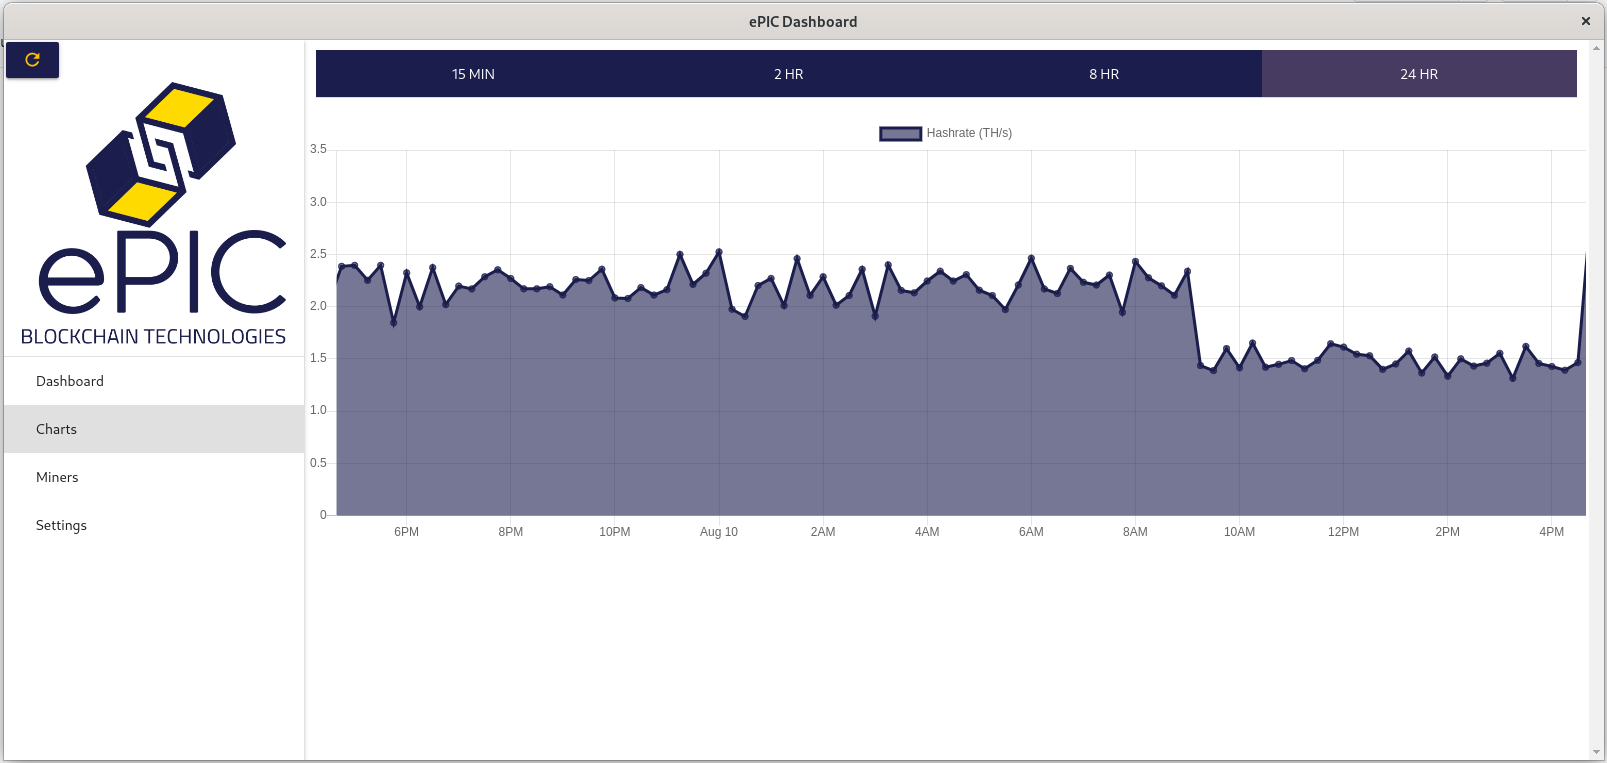
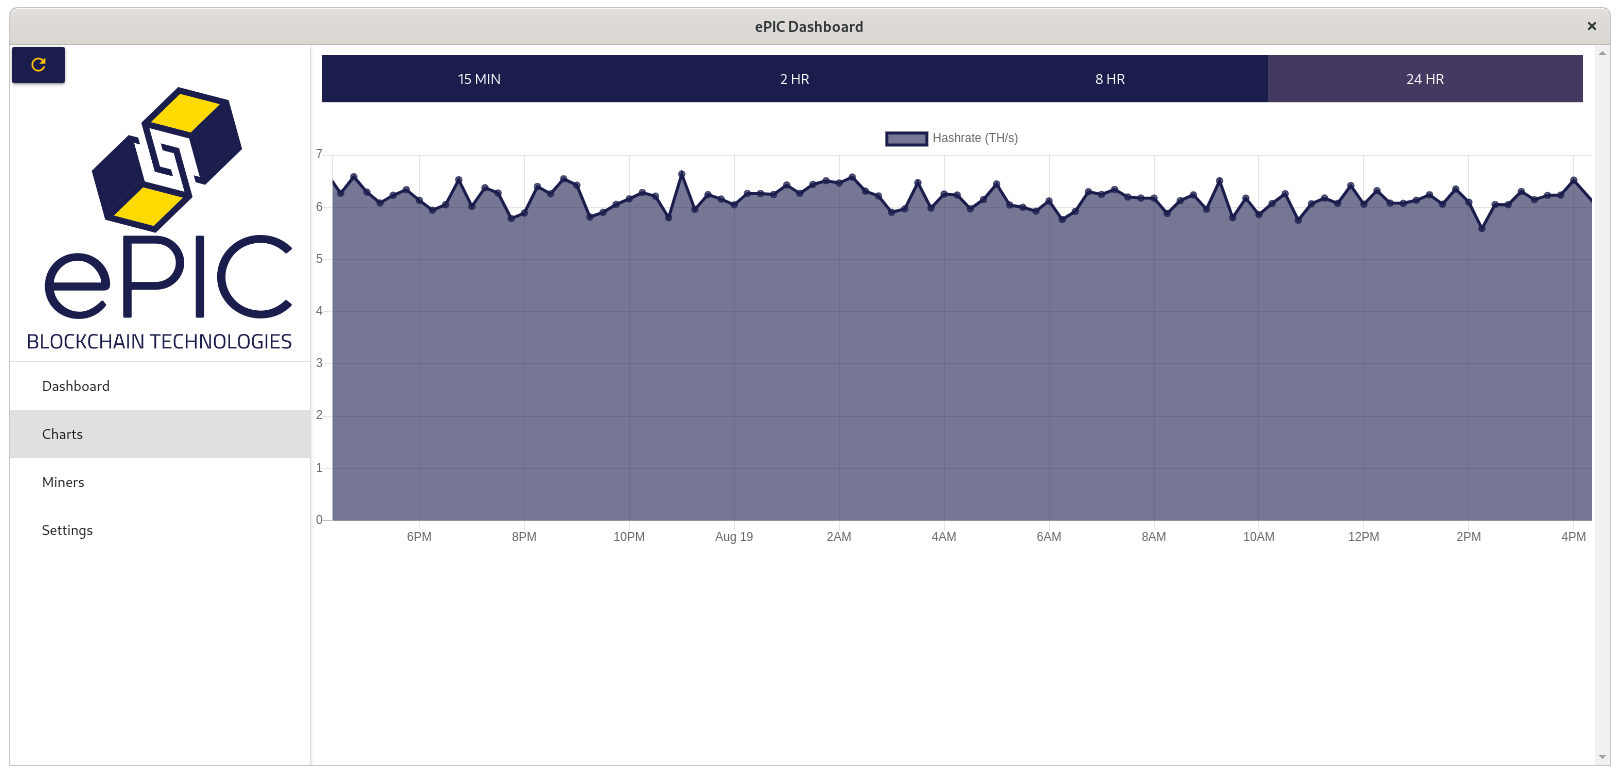
updated chart to show total, not average hashrate decreased polling rate used the correct variable to determine if a miner is alive updated photo to refresh total hashrate example

Changed region(s): [[0.0, 0.0, 1.0, 1.0], [0.0, 0.6632, 0.0622, 0.7235]]

diff --git a/main.js b/main.js
@@ -140,14 +140,16 @@ function epicInit(){
     timer = setInterval(() => {
       //run every request interval
       epicLoop();
-    }, 3000);
+    }, 300000); //5 min
   }, 6000);
 };
 
 //this functions loop is managed by init
 function epicLoop() {
   miners.forEach(m => {
-    if (m.alive) m.fetchSummary();
+    if (m.active) {
+        m.fetchSummary();
+    }
   });
 
   //dashboard

diff --git a/custom/EpicMinerDataMassager.js b/custom/EpicMinerDataMassager.js
@@ -162,12 +162,9 @@ function loadHistoryChartData(miners){
     //uses in place operations, maybe you can get better by using a new var to hold your stuff
     Object.keys(data).forEach(d => {
         var sum = 0;
-        var count = 0;
         data[d].forEach(hr => {
             sum += hr;
-            count++;
         });
-        sum /= count;
         data[d] = sum;
     });
 
